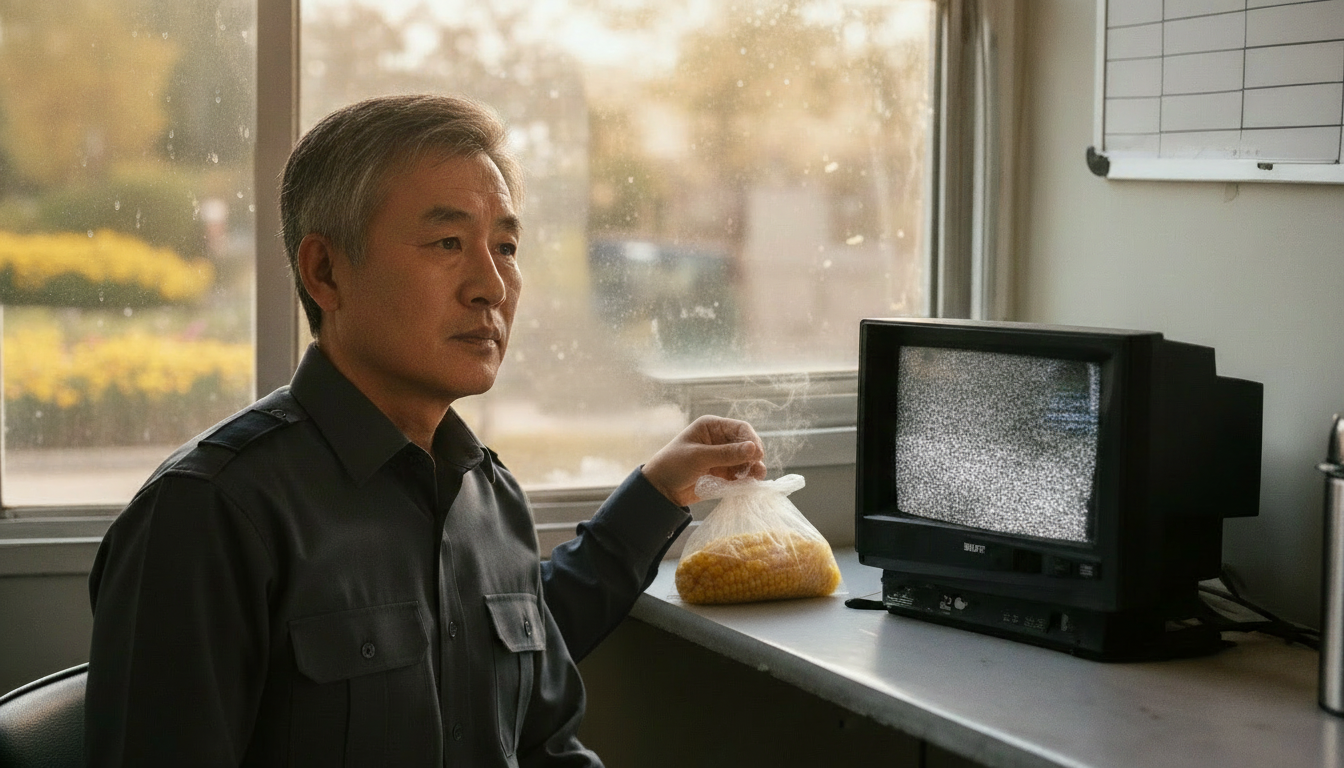
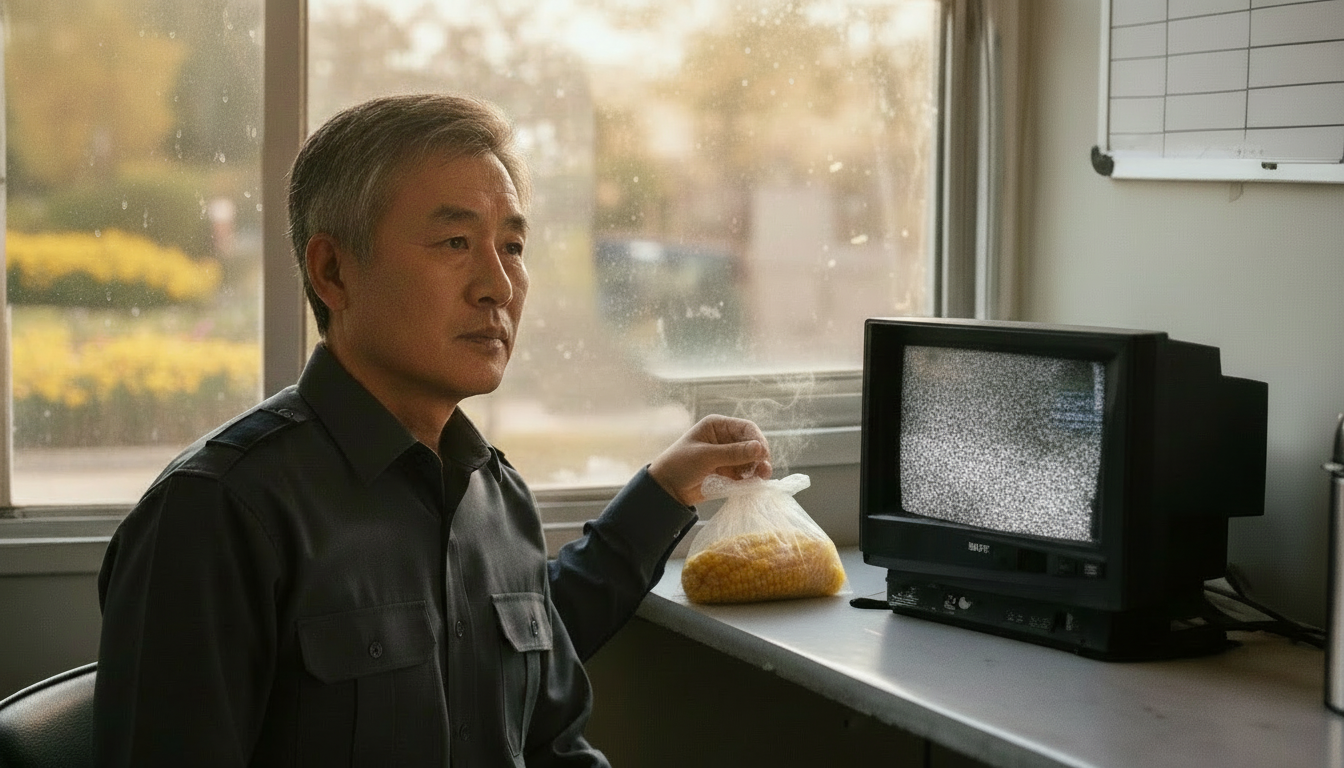
EP3 S41 손 수정 편집본 채택(팔·손 연결), 기록
Claude-Session: https://claude.ai/code/session_01AeoQmDXLUZEJdLTemjg1sM

diff --git a/docs/EP3-PHASE4-키프레임.md b/docs/EP3-PHASE4-키프레임.md
@@ -83,3 +83,7 @@
 - 원인: 시트 전체(2x2)를 한 장으로 참조하면 모델이 손잡이 패널을 약하게 따름 → 셀 2장(3/4 앞모습 `cells/cart-front34.png`, 손잡이 클로즈업 `cells/cart-handle.png`)을 별도 참조 + "끌채 한 개·가로 손잡이 한 개, U자·두 줄·밀대 금지" 문장.
 - 불합격 5장(S09·S26·S29·S37·S42) 재생성: S09·S26·S37·S42 합격(연속성 앵커 제외 후). S29는 3회 모두 U자로 나와 손잡이만 인페인팅 교체 → 합격.
 - 추가 유료 생성 10장(약 0.4달러). 리어카 등장 컷 전부 끌채 설계 일치 확인.
+
+## 4-7. S41 손 부자연 수정 (2026-10-02, 사용자 지적 "남의 손 같아")
+- 불합격 사유: 봉지를 잡은 오른손이 팔과 이어지지 않고 떠 있음(Kill Gate 신체/말단 위반).
+- 조치: 편집본(a, 인물·배경 유지, 오른팔·손만 재구성)과 재생성본(b) 2안 생성 → a 채택(팔이 어깨에서 소매까지 이어지고 손가락 5개로 봉지 윗부분을 집음). b는 봉지가 2개 생겨 폐기. 구판은 `_rejected-s41-floating-hand.png`.
